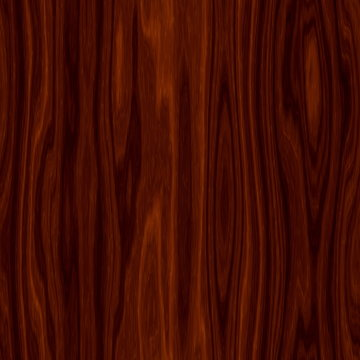
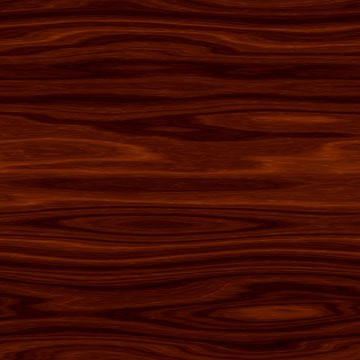
update table image

diff --git a/src/styles.css b/src/styles.css
@@ -268,7 +268,7 @@ fieldset#dice-tray {
     height: 300px;
     padding: 0px;
     width: 280px;
-    background-image: url('/assets/woodgrain.jpg');
+    background-image: url('/assets/mahogany.jpg');
     background-size: cover;
   }
 }
